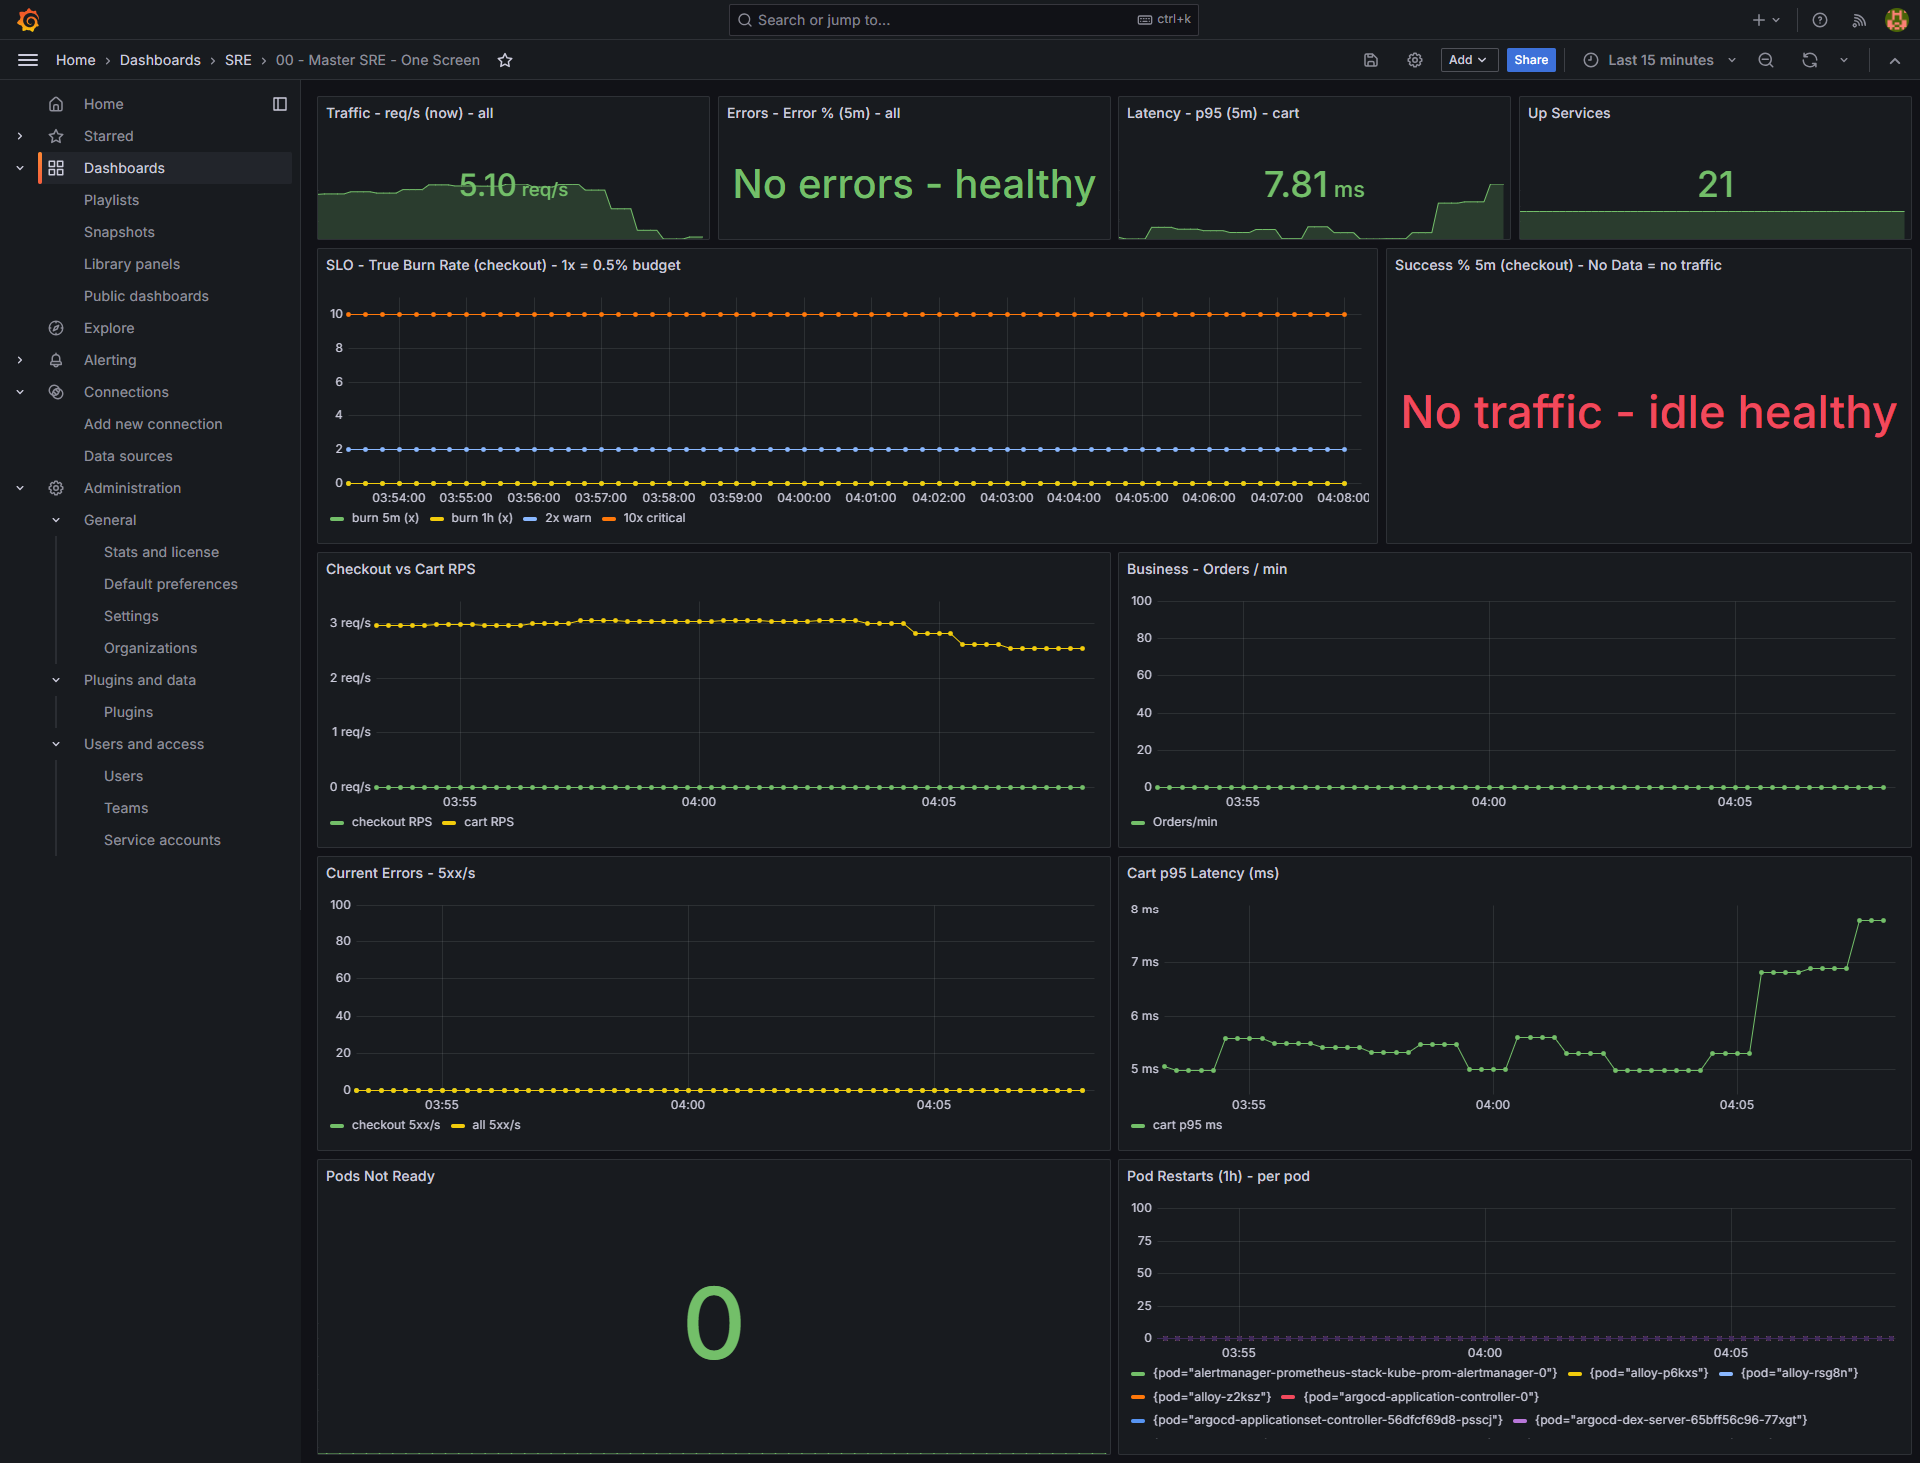
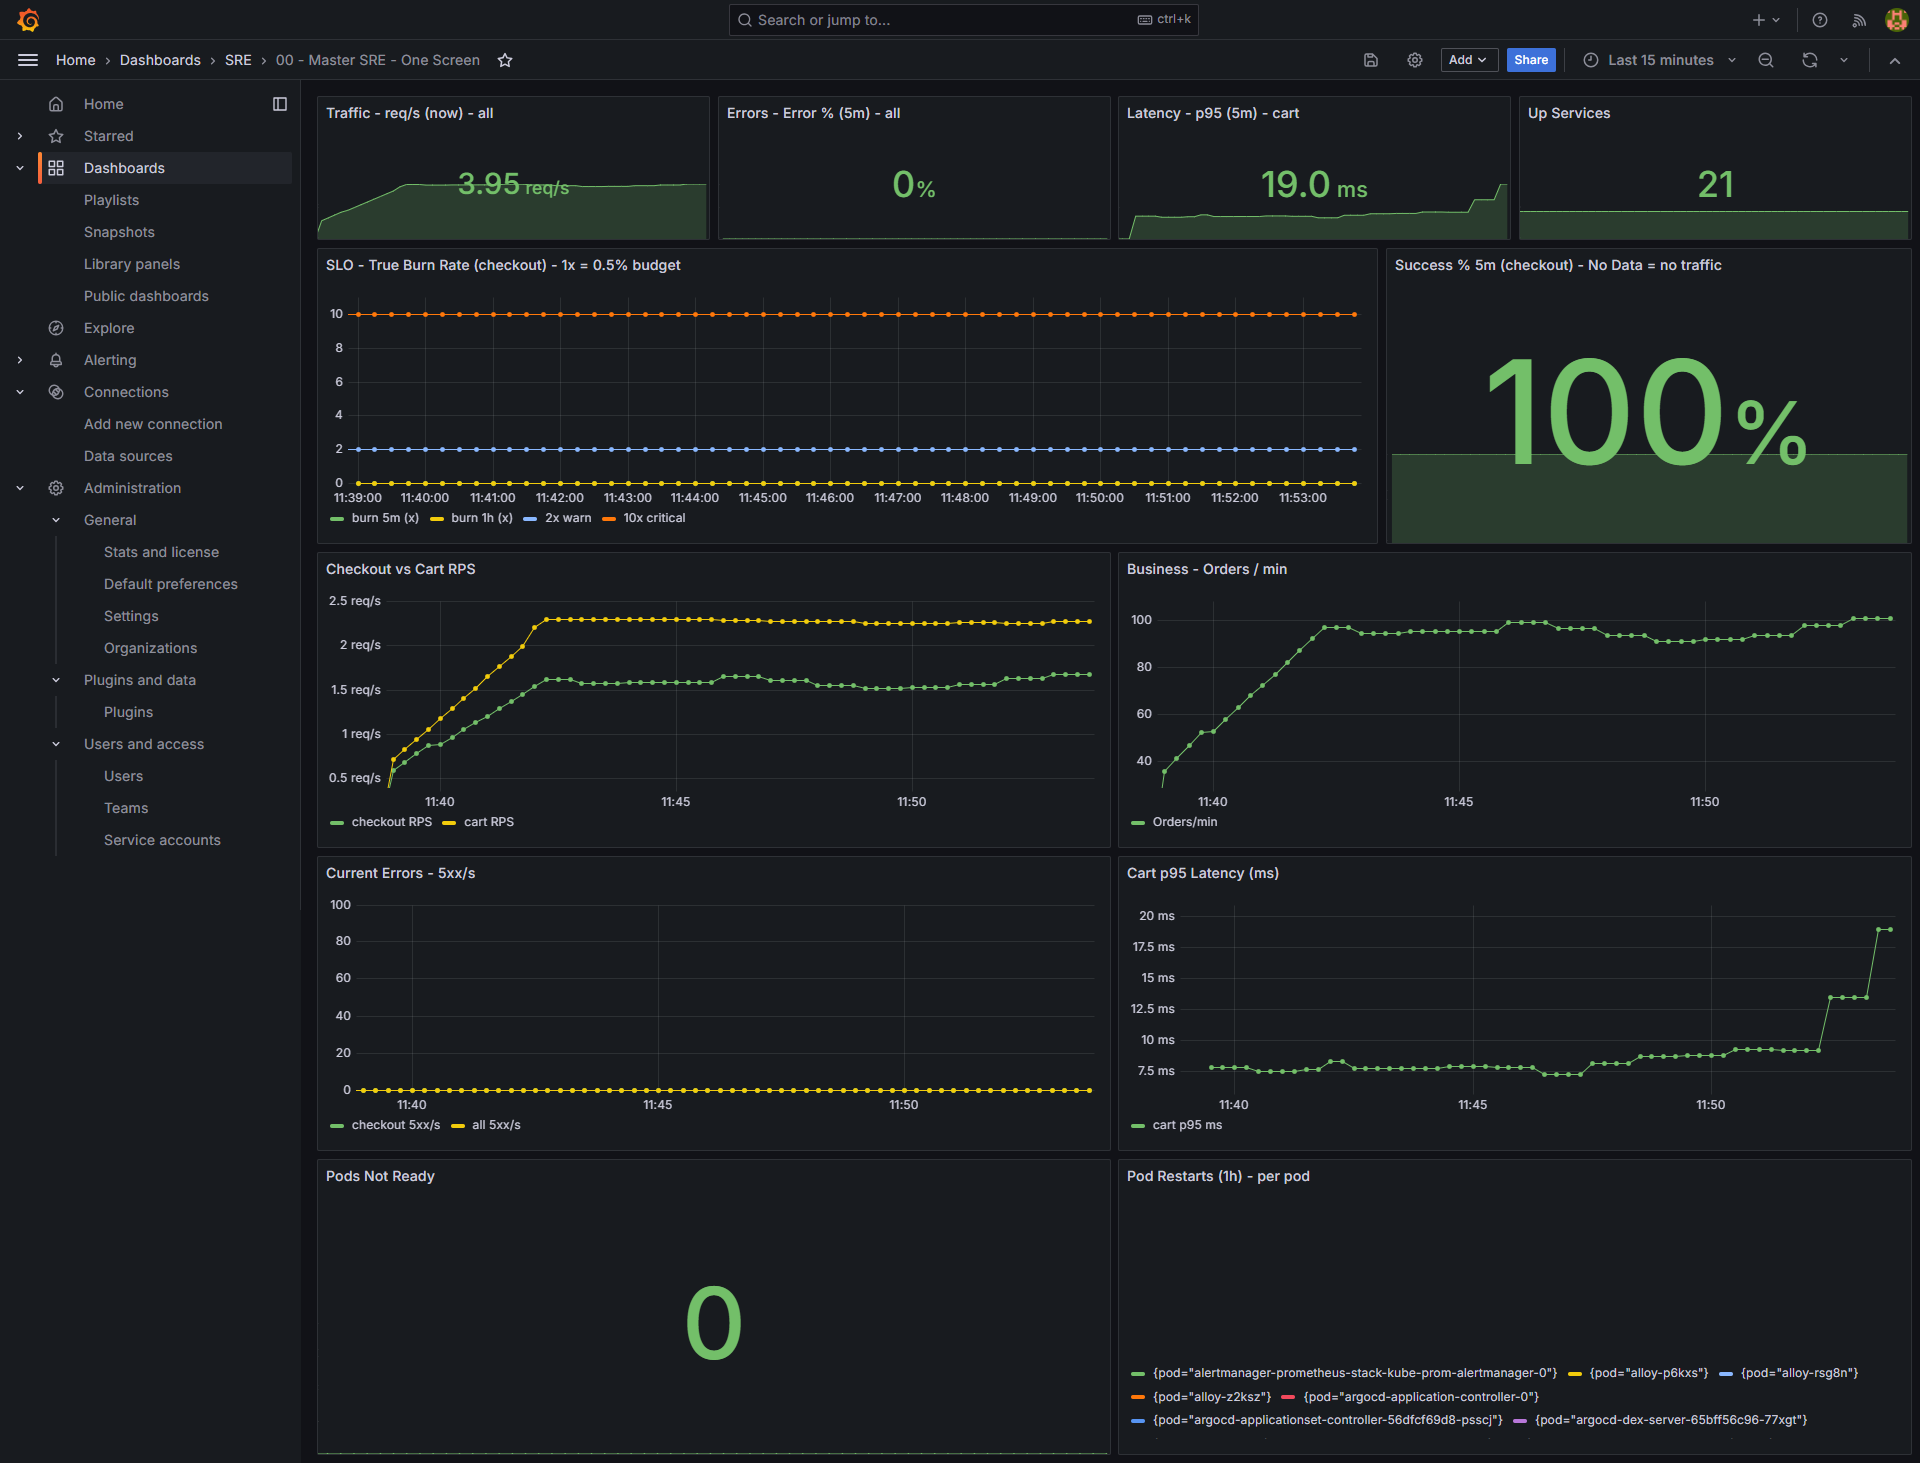
docs: v1.0 evidence (9 screenshots) + honest regex fix - verified 0% error 94.8 orders/min burn 0x

diff --git a/README.md b/README.md
@@ -458,17 +458,41 @@ Full: [docs/architecture.md](./docs/architecture.md)
 
 ## Evidence - v1.0 Screenshots
 
-### Argo CD - 8 apps Synced/Healthy (App-of-Apps self-heal)
+### 01 - Argo CD - 8 apps Synced/Healthy (App-of-Apps self-heal)
 ![Argo CD Synced Healthy](docs/images/v1.0/01-argocd-apps-synced-healthy.png)
+*Root App-of-Apps discovers 8 child apps: otel-demo, prometheus, dashboards, alloy, loki, tempo, minio, hardening. Automated sync + prune + selfHeal. Proves Git is source of truth.*
 
-### Grafana - Master SRE Dashboard (burn-rate, RED, business)
+### 02 - Grafana - Master SRE Dashboard (00 - Master SRE - One Screen)
 ![Master SRE](docs/images/v1.0/02-grafana-sre-master-dashboard.png)
+*Single pane: Traffic req/s, Error % 0%, p95 latency, Up pods 21, SLO Success % 100%, True Burn Rate 0x, **Business - Orders/min 101/min** (source of truth for business throughput), Current Errors checkout 500/s 0. This is the SRE on-call screen.*
 
-### Grafana - Logs/Traces correlation via Alloy
-![Logs Traces](docs/images/v1.0/05-grafana-logs-traces.png)
+### 03 - Grafana - Infra Cluster (CPU/Mem/Disk, kubelet, API)
+![Infra Cluster](docs/images/v1.0/03-grafana-infra-cluster.png)
+*Node CPU/Mem/Disk, kubelet, API server health. Shows k3d 1 server + 2 agents handling 101 orders/min with low resource usage — lab is lightweight by design.*
 
-### Alertmanager → Slack with runbook_url
-![Slack Alert](docs/images/v1.0/06-slack-alertmanager.png)
+### 04 - Grafana - App RED (Rate / Errors / Duration)
+![App RED](docs/images/v1.0/04-grafana-app-red.png)
+*RED for frontend/checkout/cart/kafka. Rate 3-4 rps, Errors 0% green, Duration p95 ~19.0ms. Frontend `app_frontend_requests_total{target=~".*checkout.*"}` drives SLOs.*
+
+### 05 - Grafana - App Business KPIs (Checkout Rate, Cart gRPC)
+![App Business KPIs](docs/images/v1.0/05-App-Business-KPIs.png)
+*Dashboard: 04 - App Business KPIs. Panels: `Checkout Rate (Place Order) - 500 indicates kafka/queue failure` showing `target=~".*checkout.*"`, `Cart Operations`, `Cart Service gRPC - AddItem / GetCart`, and `Checkout Failures vs Success (honest regex)` with `status=~"5.."` vs `!~"5.."`. 
+
+### 06 - Grafana - Logs/Traces Correlation via Alloy
+![Logs Traces](docs/images/v1.0/06-grafana-logs-traces.png)
+*Alloy OTLP receiver (4317) + loki.source.kubernetes → Loki + Tempo. Exemplars linking metrics → traces → logs. Same traceId in Grafana Explore.*
+
+### 07 - Grafana - SLOs - 4 Golden Signals + Burn Rate
+![SLOs Burn Rate](docs/images/v1.0/07-grafana-SLOs-4-golden-signals-burn-rate.png)
+*SLO: 99.5% availability, 0.5% budget. `burn_rate = error_rate / 0.005`. Panels: success_percent:5m 100%, error_rate:5m 0%, burn_rate:5m 0x, burn_rate:1h decay 27.7→0. Multi-window alert 2x warning, 10x critical.*
+
+### 08 - Prometheus - app_frontend_requests_total (Checkout Proof)
+![Prometheus Checkout](docs/images/v1.0/08-Prometheus-app-frontend-requests-total.png)
+*PromQL: `sum by(status) (rate(app_frontend_requests_total{target=~".*checkout.*"}))` → `200=1.67, 500=0`. Direct proof load-test v6 uses Chrome-accurate payload: `userId + address + creditCard + currencyCode=USD`.*
+
+### 09 - Alertmanager → Slack with runbook_url
+![Slack Alert](docs/images/v1.0/09-slack-alertmanager.png)
+*Alertmanager routing `CheckoutSLOBurning` / `CheckoutSLOFastBurn` → Slack #alerts-sre with `runbook_url: docs/runbooks/checkout-slo-burning.md`. Slack shows RESOLVED after fix — MTTR closed loop.*
 
 ---
 
